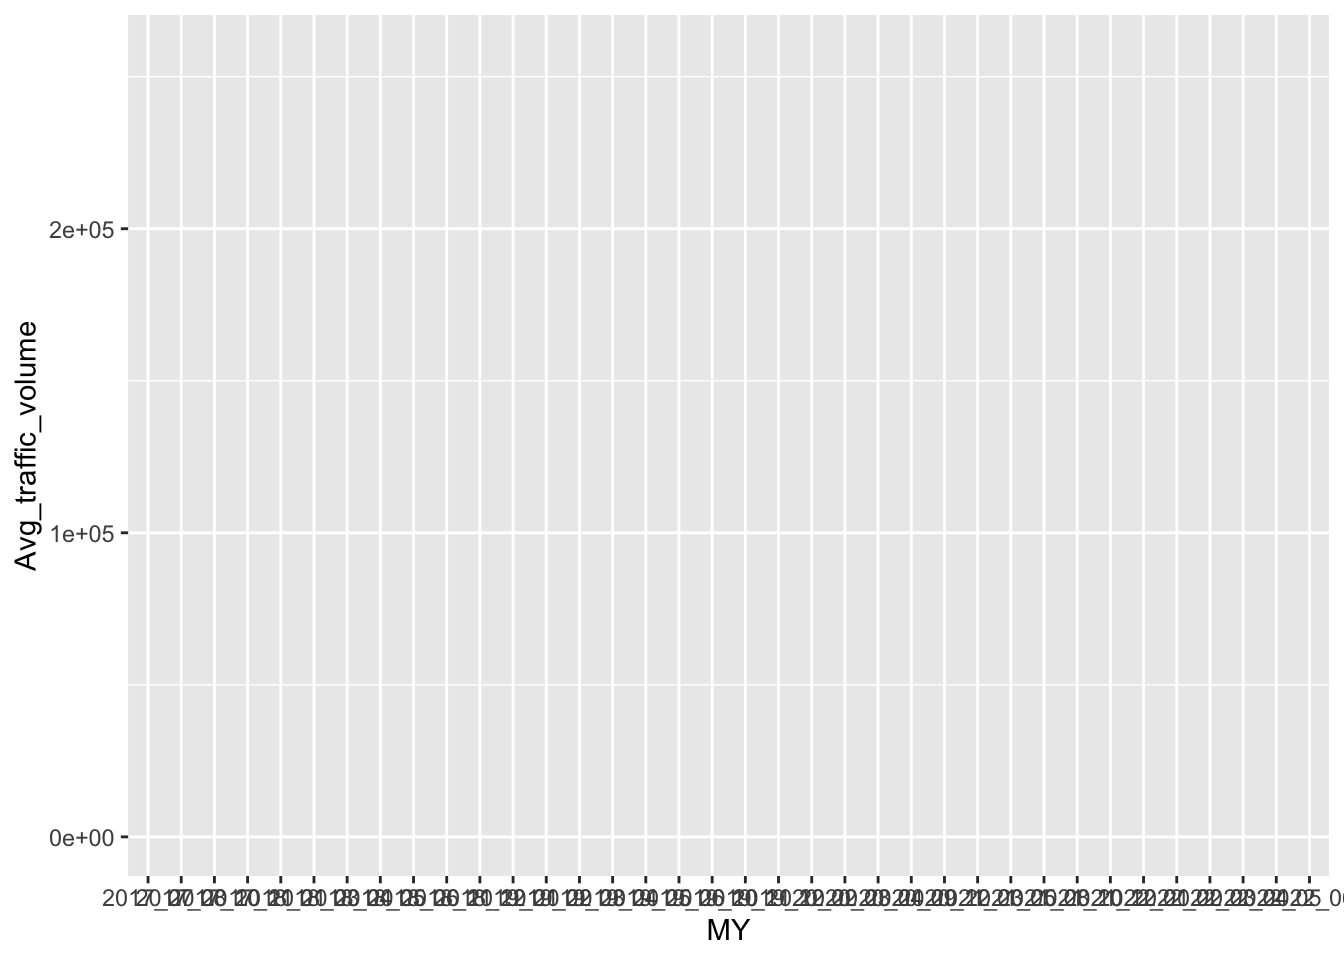
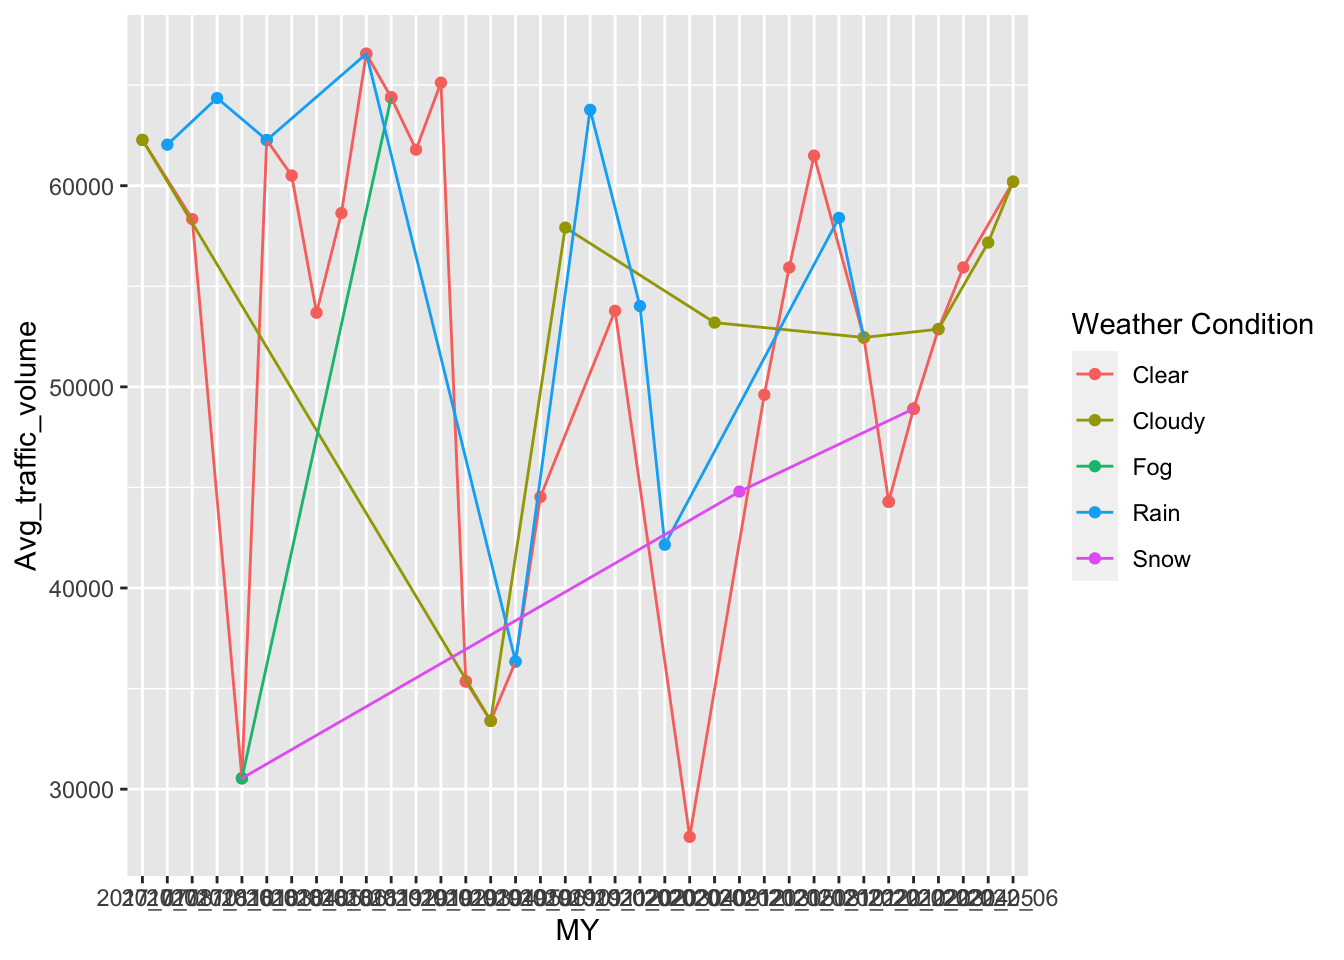
analysis_20221130

Changed region(s): [[0.0312, 0.0, 1.0, 1.0]]

diff --git a/content/analysis.html b/content/analysis.html
@@ -89,16 +89,14 @@ Traffic_Volume &lt;- read_csv(here::here(&quot;dataset&quot;, &quot;Traffic_Volu
 
 Combined &lt;- inner_join(Traffic_Volume, MA_select3, by = &quot;MY&quot;) %&gt;% select(MY, Avg_traffic_volume, `Weather Condition`)
 
-(
-  Combined %&gt;% group_by(MY) %&gt;% mutate(count = n()) %&gt;% ungroup() %&gt;% ggplot(aes(x = MY, y = Avg_traffic_volume))+ geom_area(fill = &quot;blue&quot;, alpha = .2)
-)</code></pre>
+
+
+Combined %&gt;% ggplot(aes(MY, Avg_traffic_volume, color = `Weather Condition`)) + geom_point() + geom_line(aes(group = `Weather Condition`)) </code></pre>
 <p><img src="/analysis_files/figure-html/unnamed-chunk-4-1.png" width="672" /></p>
-<pre class="r"><code>Combined %&gt;% ggplot(aes(MY, Avg_traffic_volume, color = `Weather Condition`)) + geom_point() + geom_line(aes(group = `Weather Condition`)) </code></pre>
-<p><img src="/analysis_files/figure-html/unnamed-chunk-4-2.png" width="672" /></p>
 <pre class="r"><code>Combined %&gt;% filter(`Weather Condition` == &quot;Clear&quot;) %&gt;% ggplot(aes(MY, Avg_traffic_volume)) + geom_point() + geom_line(aes(group = 1)) </code></pre>
-<p><img src="/analysis_files/figure-html/unnamed-chunk-4-3.png" width="672" /></p>
+<p><img src="/analysis_files/figure-html/unnamed-chunk-4-2.png" width="672" /></p>
 <pre class="r"><code>Combined %&gt;% filter(`Weather Condition` == &quot;Clear&quot;) %&gt;% group_by(MY) %&gt;% mutate(count = n()) %&gt;% ungroup() %&gt;% ggplot(aes(MY, count)) + geom_point() + geom_line(aes(group = 1)) </code></pre>
-<p><img src="/analysis_files/figure-html/unnamed-chunk-4-4.png" width="672" />
+<p><img src="/analysis_files/figure-html/unnamed-chunk-4-3.png" width="672" />
 * After we plot the graphs, we don’t see any patterns between traffic volume and accident counts. To prove our findings, we plan to run regression to come up with a conclusion.
 ## Section 3: Modeling</p>
 <pre class="r"><code>MA_regression &lt;- MA_select %&gt;% group_by(`County Name`) %&gt;% mutate(Accident_Count = n()) %&gt;% select(`County Name`, Accident_Count, `Train Speed`, `Estimated Vehicle Speed`)
@@ -160,51 +158,4 @@ Combined &lt;- inner_join(Traffic_Volume, MA_select3, by = &quot;MY&quot;) %&gt;
 <li><p>There are also flaws in our supportive dataset. The traffic volume data of each targeted county are collected in months instead of days while the weather condition of each accident is collected individually. So we can only assume the most common weather conditions for each month to represent this month’s weather conditions. The lack of precision of the traffic volume data collected by the Massachusetts government greatly influenced the accuracy of our analysis.</p></li>
 </ul>
 <hr />
-</div>
-<div id="rubric-on-this-page" class="section level2">
-<h2>Rubric: On this page</h2>
-<p>you will</p>
-<ul>
-<li>Introduce what motivates your Data Analysis (DA)
-<ul>
-<li>Which variables and relationships are you most interested in?</li>
-<li>What questions are you interested in answering?</li>
-</ul></li>
-<li>Breadth of the DA
-<ul>
-<li>Make sure that you ask enough initial questions to explore the different variables in your data.</li>
-<li>i.e. Do you explore more than just one or two variables? Do you explore a few different relationships or many?</li>
-</ul></li>
-<li>Depth of the DA
-<ul>
-<li>When you answer one question, usually more questions arise as well.</li>
-<li>The depth of the DA is about coming up with and exploring the answers to these questions, often iterating the process a few times.</li>
-</ul></li>
-<li>Modeling and Inference
-<ul>
-<li>You should also include some kind of formal statistical model and/or inference. This could be a linear regression, logistic regression, hypothesis testing etc.</li>
-<li>Explain the techniques you used for validating your results.</li>
-<li>Describe the results of your modelling and make sure to give a sense of the uncertainty in your estimates and conclusions.</li>
-</ul></li>
-<li>Explain the flaws and limitations of your analysis
-<ul>
-<li>Are there some assumptions that you needed to make that might not hold? Is there other data that would help to answer your questions? …</li>
-</ul></li>
-<li>Clarity Figures
-<ul>
-<li>Are your figures/tables/results easy to read, informative, without problems like overplotting, hard-to-read labels, etc?</li>
-<li>Each figure should provide a key insight. Too many figures or other data summaries can detract from this.</li>
-</ul></li>
-<li>Clarity of Explanations
-<ul>
-<li>Do you introduce why you are doing each analysis?</li>
-<li>How well do you explain each figure/result?</li>
-<li>Do you provide interpretations that suggest further analysis or explanations for observed phenomenon?</li>
-</ul></li>
-<li>Organization and cleanliness.
-<ul>
-<li>Make sure to remove excessive warnings, use clean easy-to-read code, organize with sections or multiple pages, use bullets, etc.</li>
-</ul></li>
-</ul>
-<p><strong>NOTE</strong>: Your Data Analysis can be broken up into multiple pages if that helps with your organization.</p>
 </div>
